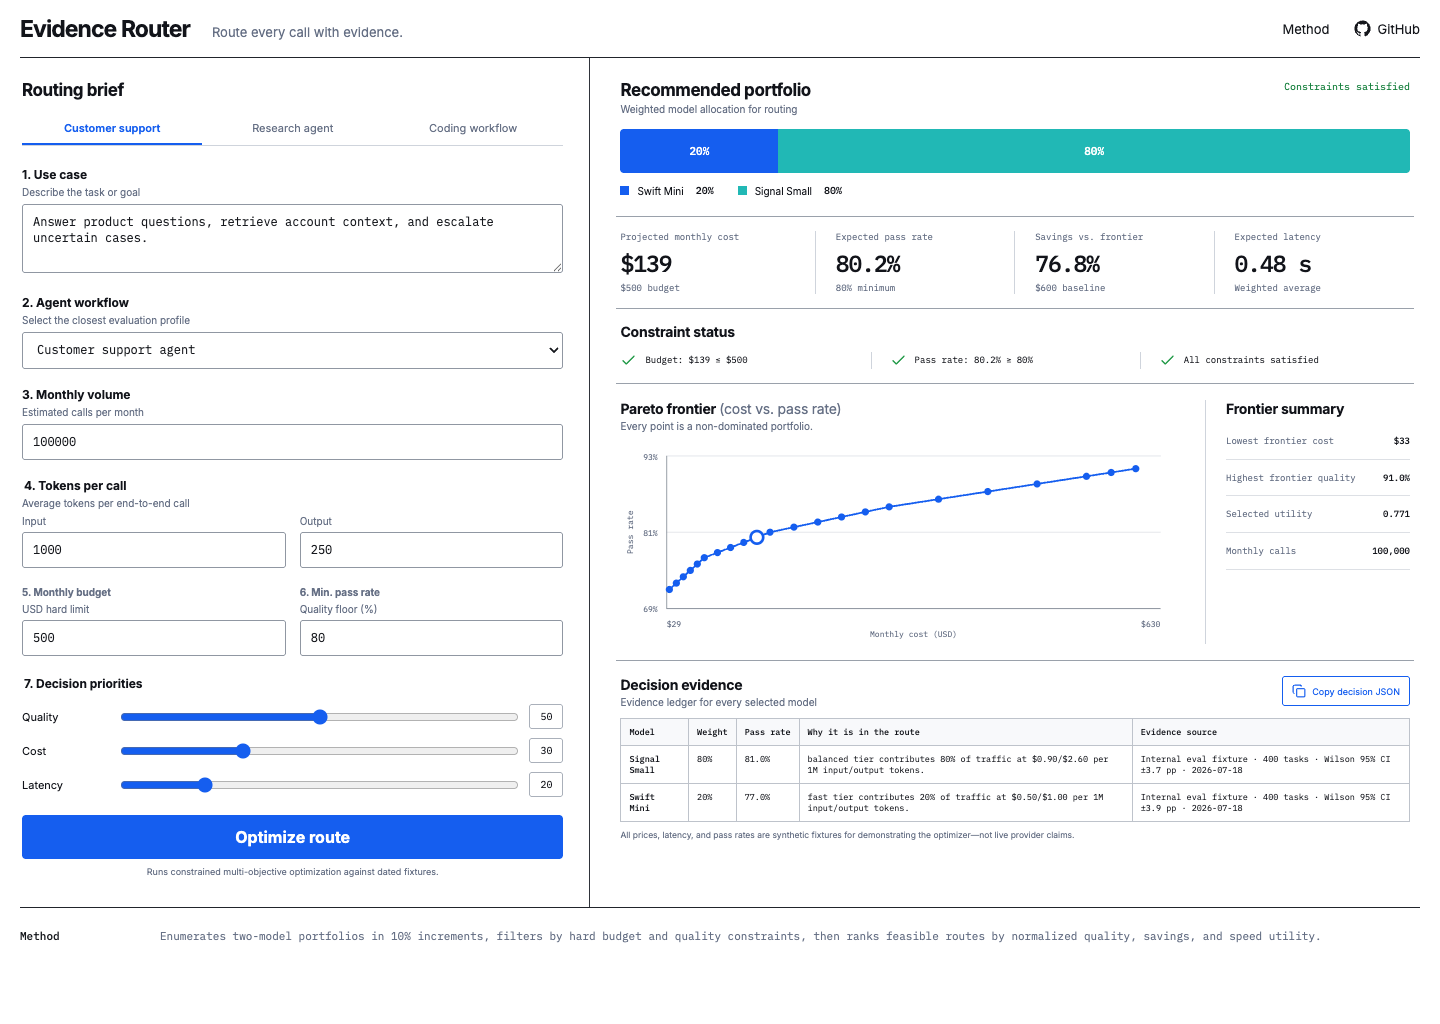
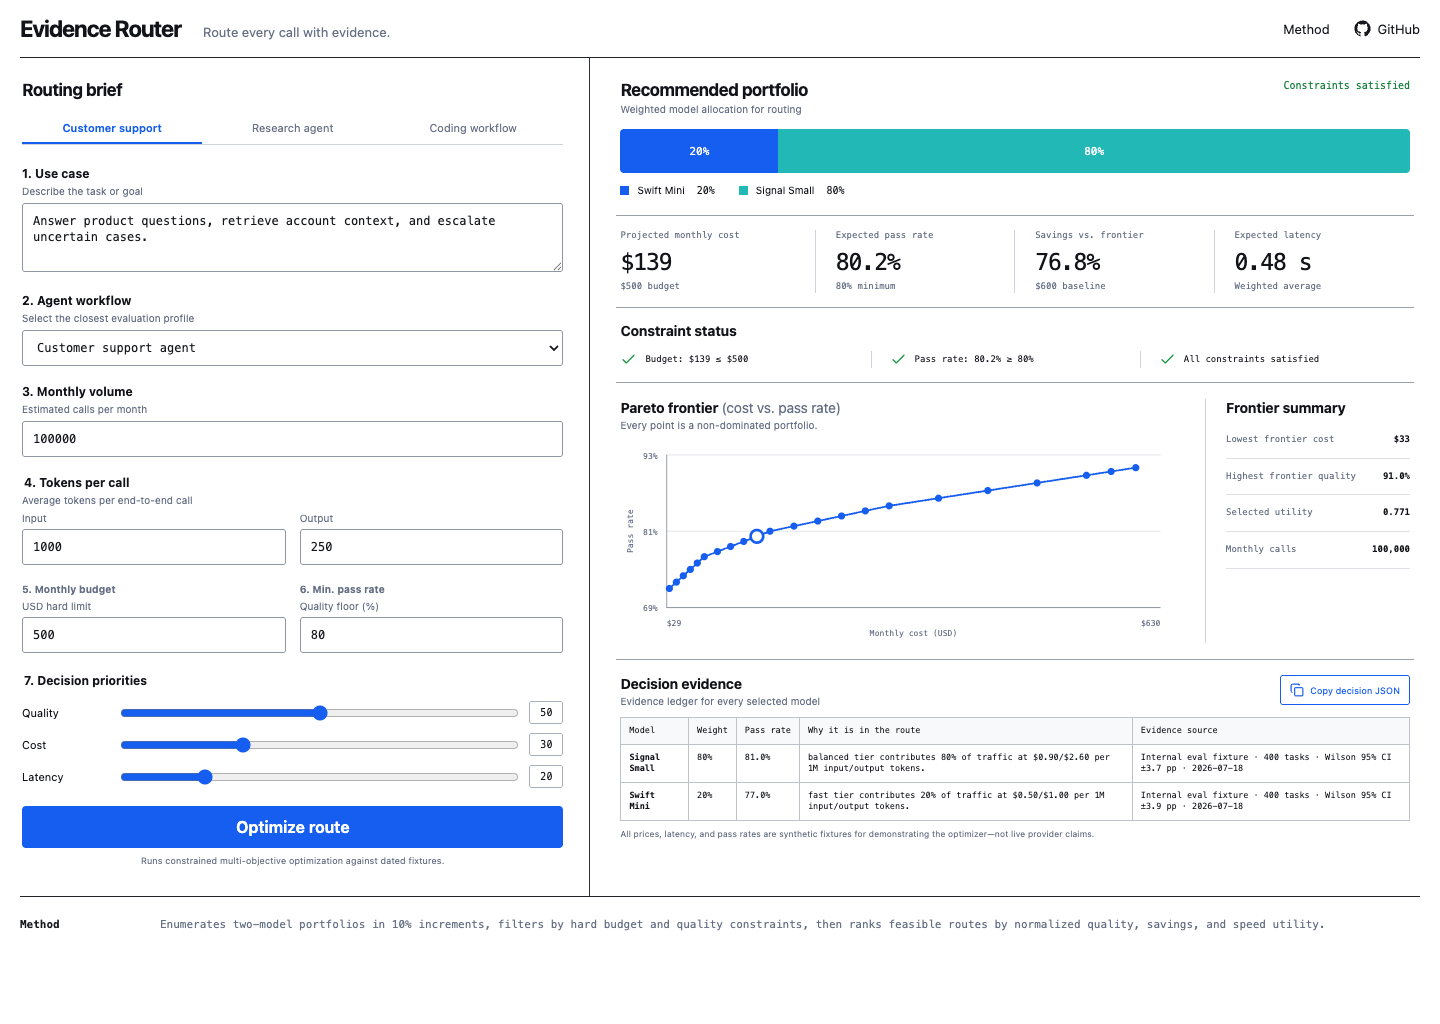
docs: prepare public demo and Pages deployment

diff --git a/src/styles.css b/src/styles.css
@@ -1,6 +1,4 @@
-@import url('https://fonts.googleapis.com/css2?family=IBM+Plex+Mono:wght@400;500&family=Inter:wght@400;500;600;700&display=swap');
-
-:root { font-family: Inter, system-ui, sans-serif; color: #12141a; background: #fff; font-synthesis: none; --blue: #155eef; --rule: #cfd4dc; --muted: #667085; }
+:root { font-family: Inter, -apple-system, BlinkMacSystemFont, "Segoe UI", sans-serif; color: #12141a; background: #fff; font-synthesis: none; --blue: #155eef; --rule: #cfd4dc; --muted: #667085; }
 * { box-sizing: border-box; }
 body { margin: 0; min-width: 320px; background: #fff; }
 button, input, textarea, select { font: inherit; }
@@ -26,7 +24,7 @@ h3 { font-size: 14px; letter-spacing: -0.015em; }
 .field, .priorities { display: block; border: 0; padding: 0; margin: 0 0 18px; }
 .field-index { display: block; font-weight: 700; font-size: 12px; margin-bottom: 4px; }
 .field-help { display: block; font-size: 10px; color: var(--muted); margin-bottom: 6px; }
-.field input, .field textarea, .field select, .paired-inputs input { width: 100%; border: 1px solid #9097a2; border-radius: 3px; background: #fff; padding: 9px 10px; font: 12px/1.35 'IBM Plex Mono', monospace; color: #16181d; }
+.field input, .field textarea, .field select, .paired-inputs input { width: 100%; border: 1px solid #9097a2; border-radius: 3px; background: #fff; padding: 9px 10px; font: 12px/1.35 ui-monospace, SFMono-Regular, Menlo, monospace; color: #16181d; }
 .field textarea { resize: vertical; min-height: 68px; }
 .paired-inputs { display: grid; grid-template-columns: 1fr 1fr; gap: 14px; }
 .paired-inputs label > span { display: block; color: var(--muted); font-size: 10px; margin-bottom: 5px; }
@@ -34,31 +32,31 @@ h3 { font-size: 14px; letter-spacing: -0.015em; }
 .priorities { margin-top: 2px; }
 .priority-row { display: grid; grid-template-columns: 88px 1fr 34px; gap: 8px; align-items: center; font-size: 11px; margin-top: 9px; }
 .priority-row input { accent-color: var(--blue); min-width: 0; }
-.priority-row output { border: 1px solid #aab0ba; border-radius: 3px; padding: 5px 2px; text-align: center; font: 10px 'IBM Plex Mono', monospace; }
+.priority-row output { border: 1px solid #aab0ba; border-radius: 3px; padding: 5px 2px; text-align: center; font: 10px ui-monospace, SFMono-Regular, Menlo, monospace; }
 .optimize-button { width: 100%; border: 0; border-radius: 4px; padding: 12px; background: var(--blue); color: #fff; font-weight: 650; cursor: pointer; }
 .optimize-button:hover { background: #0b4bd4; }
 .button-note { color: var(--muted); font-size: 9px; text-align: center; margin-top: 7px; }
 .result-section { padding: 0 4px 19px; }
 .section-title-row { display: flex; align-items: flex-start; justify-content: space-between; gap: 16px; }
 .section-title-row p, .subcopy { font-size: 10px; color: var(--muted); margin-top: 3px; }
-.status-label { font: 10px 'IBM Plex Mono', monospace; }
+.status-label { font: 10px ui-monospace, SFMono-Regular, Menlo, monospace; }
 .status-label.ok { color: #16803d; }
 .status-label.warn { color: #a15c00; }
 .portfolio-bar { display: flex; height: 44px; overflow: hidden; margin-top: 14px; border-radius: 4px; }
-.portfolio-segment { min-width: 48px; display: flex; align-items: center; justify-content: center; color: #fff; font: 500 11px 'IBM Plex Mono', monospace; }
+.portfolio-segment { min-width: 48px; display: flex; align-items: center; justify-content: center; color: #fff; font: 500 11px ui-monospace, SFMono-Regular, Menlo, monospace; }
 .portfolio-legend { display: flex; gap: 24px; flex-wrap: wrap; margin-top: 11px; }
 .legend-item { display: grid; grid-template-columns: 10px auto auto; gap: 7px; align-items: center; font-size: 10px; }
 .legend-swatch { width: 9px; height: 9px; }
-.legend-item strong { font: 500 10px 'IBM Plex Mono', monospace; margin-left: 5px; }
+.legend-item strong { font: 500 10px ui-monospace, SFMono-Regular, Menlo, monospace; margin-left: 5px; }
 .metric-strip { display: grid; grid-template-columns: repeat(4, 1fr); border-top: 1px solid #9aa1ab; border-bottom: 1px solid #9aa1ab; padding: 14px 0; }
 .metric { padding: 0 20px; border-right: 1px solid var(--rule); min-width: 0; }
 .metric:first-child { padding-left: 4px; }
 .metric:last-child { border: 0; }
-.metric span, .metric small { display: block; font: 9px/1.3 'IBM Plex Mono', monospace; color: var(--muted); }
-.metric strong { display: block; font: 500 23px/1.2 'IBM Plex Mono', monospace; letter-spacing: -0.045em; margin: 7px 0 5px; white-space: nowrap; }
+.metric span, .metric small { display: block; font: 9px/1.3 ui-monospace, SFMono-Regular, Menlo, monospace; color: var(--muted); }
+.metric strong { display: block; font: 500 23px/1.2 ui-monospace, SFMono-Regular, Menlo, monospace; letter-spacing: -0.045em; margin: 7px 0 5px; white-space: nowrap; }
 .constraint-strip { border-bottom: 1px solid #9aa1ab; padding: 14px 4px; }
 .constraint-items { display: grid; grid-template-columns: repeat(3, 1fr); gap: 18px; margin-top: 12px; }
-.constraint { display: flex; gap: 8px; align-items: center; font: 9px/1.35 'IBM Plex Mono', monospace; padding-right: 10px; border-right: 1px solid var(--rule); }
+.constraint { display: flex; gap: 8px; align-items: center; font: 9px/1.35 ui-monospace, SFMono-Regular, Menlo, monospace; padding-right: 10px; border-right: 1px solid var(--rule); }
 .constraint:last-child { border: 0; }
 .constraint.ok svg { color: #249b49; }
 .constraint.warn svg { color: #bd6b00; }
@@ -67,24 +65,24 @@ h3 { font-size: 14px; letter-spacing: -0.015em; }
 .pareto-chart { display: block; width: 100%; max-height: 242px; margin-top: 6px; }
 .chart-grid { stroke: #e0e3e8; stroke-width: 1; }
 .chart-axis { stroke: #858c96; stroke-width: 1; }
-.chart-label { fill: #667085; font: 9px 'IBM Plex Mono', monospace; }
+.chart-label { fill: #667085; font: 9px ui-monospace, SFMono-Regular, Menlo, monospace; }
 .frontier-line { stroke: var(--blue); stroke-width: 2; }
 .frontier-point { fill: var(--blue); }
 .selected-point { fill: #fff; stroke: var(--blue); stroke-width: 3; }
 .frontier-summary { border-left: 1px solid var(--rule); padding-left: 20px; }
 .frontier-summary h3 { margin-bottom: 6px; }
-.summary-row { display: flex; justify-content: space-between; gap: 8px; padding: 12px 0; border-bottom: 1px solid #dde0e5; font: 9px/1.3 'IBM Plex Mono', monospace; }
+.summary-row { display: flex; justify-content: space-between; gap: 8px; padding: 12px 0; border-bottom: 1px solid #dde0e5; font: 9px/1.3 ui-monospace, SFMono-Regular, Menlo, monospace; }
 .summary-row span { color: var(--muted); }
 .summary-row strong { text-align: right; }
 .evidence-section { padding: 15px 4px 0; }
 .copy-button { border: 1px solid var(--blue); border-radius: 3px; background: #fff; color: var(--blue); padding: 7px 9px; display: inline-flex; align-items: center; gap: 6px; font-size: 9px; cursor: pointer; }
 .table-scroll { overflow-x: auto; margin-top: 10px; }
-table { width: 100%; border-collapse: collapse; font: 8.5px/1.35 'IBM Plex Mono', monospace; }
+table { width: 100%; border-collapse: collapse; font: 8.5px/1.35 ui-monospace, SFMono-Regular, Menlo, monospace; }
 th, td { border: 1px solid #bec3cb; padding: 7px 8px; text-align: left; vertical-align: top; }
 th { background: #f8f9fb; font-weight: 500; white-space: nowrap; }
 td:nth-child(2), td:nth-child(3) { white-space: nowrap; }
 .fixture-note { color: var(--muted); font-size: 8.5px; margin-top: 8px; }
-footer { margin: 0 20px; padding: 20px 0 32px; border-top: 1px solid #21242b; display: grid; grid-template-columns: 120px 1fr; gap: 20px; color: var(--muted); font: 11px/1.5 'IBM Plex Mono', monospace; }
+footer { margin: 0 20px; padding: 20px 0 32px; border-top: 1px solid #21242b; display: grid; grid-template-columns: 120px 1fr; gap: 20px; color: var(--muted); font: 11px/1.5 ui-monospace, SFMono-Regular, Menlo, monospace; }
 footer strong { color: #17191e; }
 
 @media (max-width: 1050px) {

diff --git a/README.md b/README.md
@@ -1,0 +1,86 @@
+# Evidence Router
+
+**Route every AI call with evidence.** Evidence Router is a zero-setup smart-routing demo that turns a use case, agent workflow, monthly budget, and minimum pass rate into an auditable weighted model portfolio.
+
+[Live demo](https://ktwu01.github.io/evidence-router/) · [Method](#how-the-router-works) · [Design spec](docs/superpowers/specs/2026-07-20-evidence-router-design.md)
+
+![Evidence Router decision console](docs/design/evidence-router-render.png)
+
+## What it returns
+
+- A weighted model allocation for the selected workflow
+- Projected monthly API cost from call and token volume
+- Savings against an all-frontier baseline
+- Expected pass rate and latency
+- Budget and quality constraint checks
+- A cost/quality Pareto frontier
+- A dated evidence ledger and copyable JSON decision record
+
+The application ships with three runnable scenarios: customer support, research, and coding. It requires no account, API key, backend, or provider access.
+
+## How the router works
+
+The router enumerates one- and two-model portfolios in 10% increments. For each portfolio it forecasts weighted cost, pass rate, and latency, rejects combinations that violate the monthly budget or pass-rate floor, and ranks the remaining routes using the user's normalized quality, cost, and speed priorities.
+
+If no portfolio satisfies both hard constraints, the router returns the least-violating route and quantifies both shortfalls. It never hides an infeasible request behind an empty result.
+
+```text
+maximize  w_quality × pass_rate
+        + w_cost    × savings
+        + w_speed   × normalized_speed
+
+subject to monthly_cost ≤ budget
+           pass_rate   ≥ quality_floor
+```
+
+All bundled prices, latency measurements, and pass rates are **synthetic, dated fixtures** designed to demonstrate the optimizer. They are not current provider claims. Replacing `src/data/models.ts` with benchmark observations is the intended extension point.
+
+## Relationship to API gateways
+
+Evidence Router is the decision layer, not a relay or credential broker. A production integration can send its selected model and weight policy to a compliant customer-owned gateway—such as a separately deployed OpenAI-compatible router—while keeping provider credentials, authorization, logs, and billing outside this demo.
+
+The project does not pool subscriptions, resell provider accounts, store API keys, or proxy live traffic.
+
+## Run locally
+
+```bash
+npm install
+npm run dev
+```
+
+Open the URL printed by Vite.
+
+## Verify
+
+```bash
+npm test -- --run
+npm run build
+```
+
+For visual QA, start the dev server at Vite's default port and run:
+
+```bash
+npm run qa:visual
+```
+
+This checks preset recomputation, JSON-copy feedback, desktop/mobile screenshots, and mobile overflow using Playwright with local Chrome.
+
+## Architecture
+
+```text
+src/data/models.ts       dated model fixtures
+src/lib/router.ts        forecasting + constrained optimization + Pareto filter
+src/lib/router.test.ts   deterministic behavior tests
+src/components/          form, portfolio, chart, and evidence surfaces
+scripts/visual-qa.mjs    browser interaction and responsive checks
+```
+
+React and TypeScript render a static Vite application. The routing engine is implemented as pure functions and can run in a browser, test runner, or future service without UI dependencies.
+
+## Author
+
+Built by [Koutian Wu](https://github.com/ktwu01) as an AI infrastructure and model-evaluation demo.
+
+## License
+
+MIT
